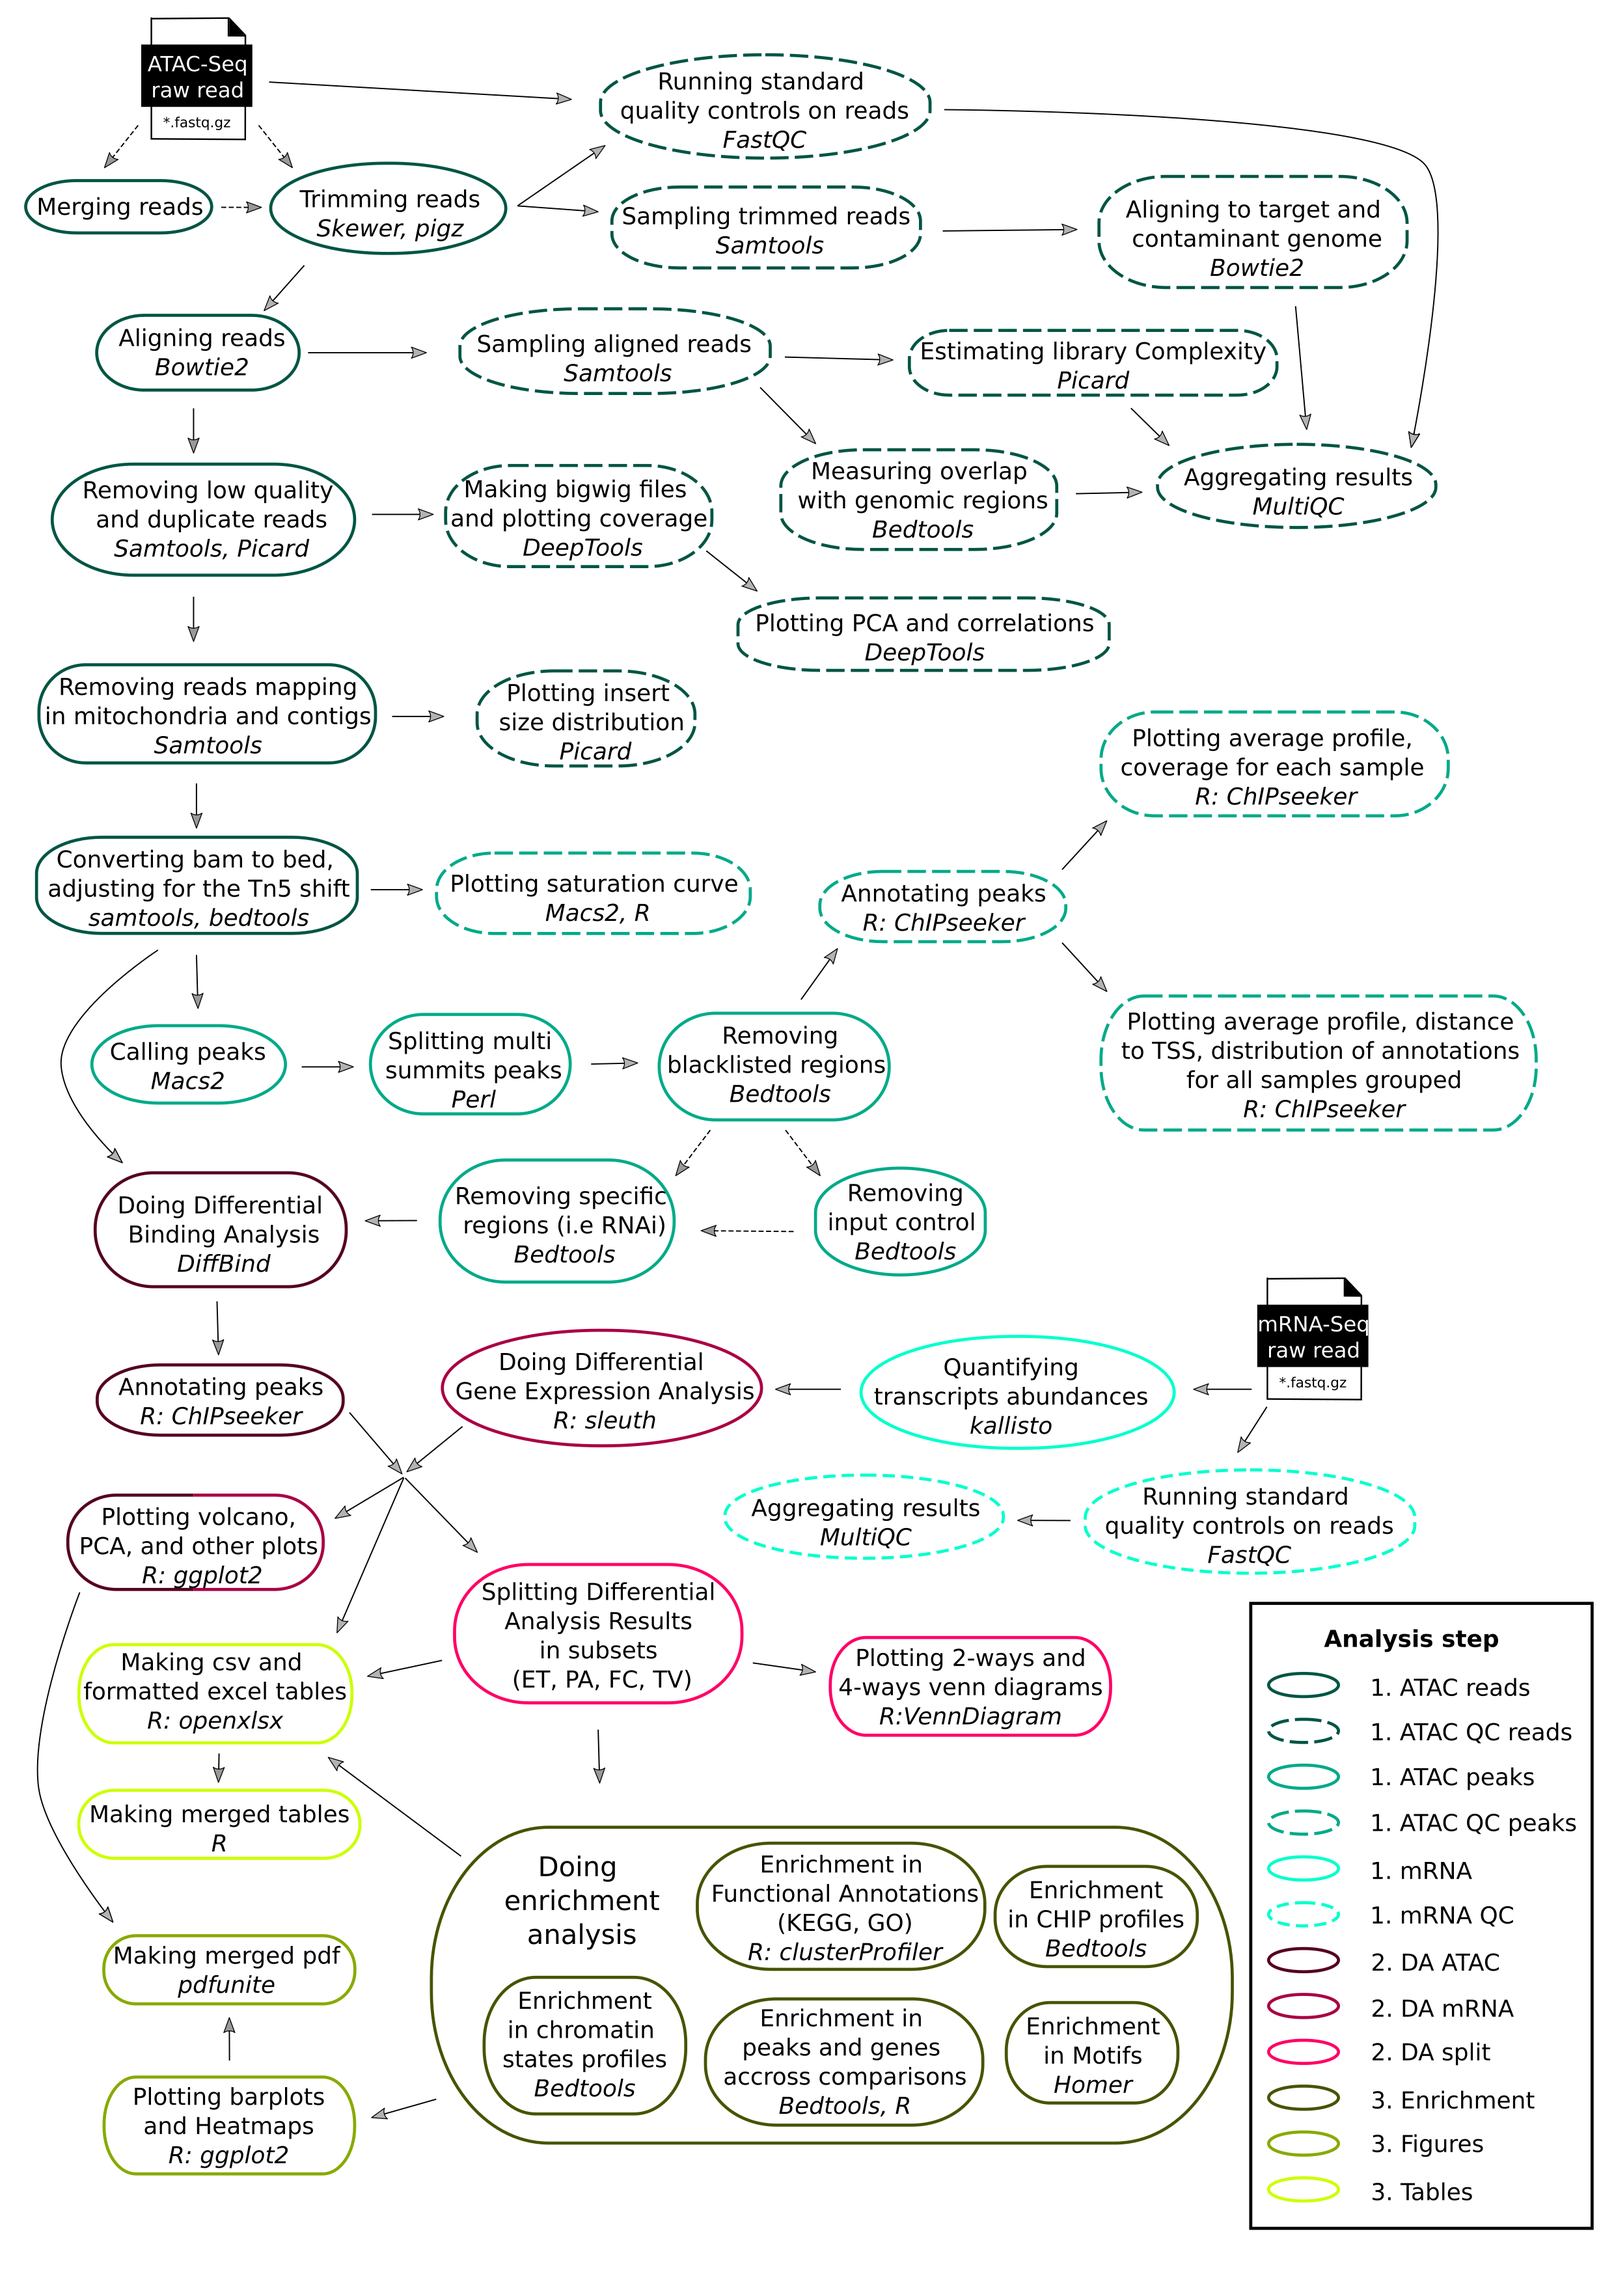
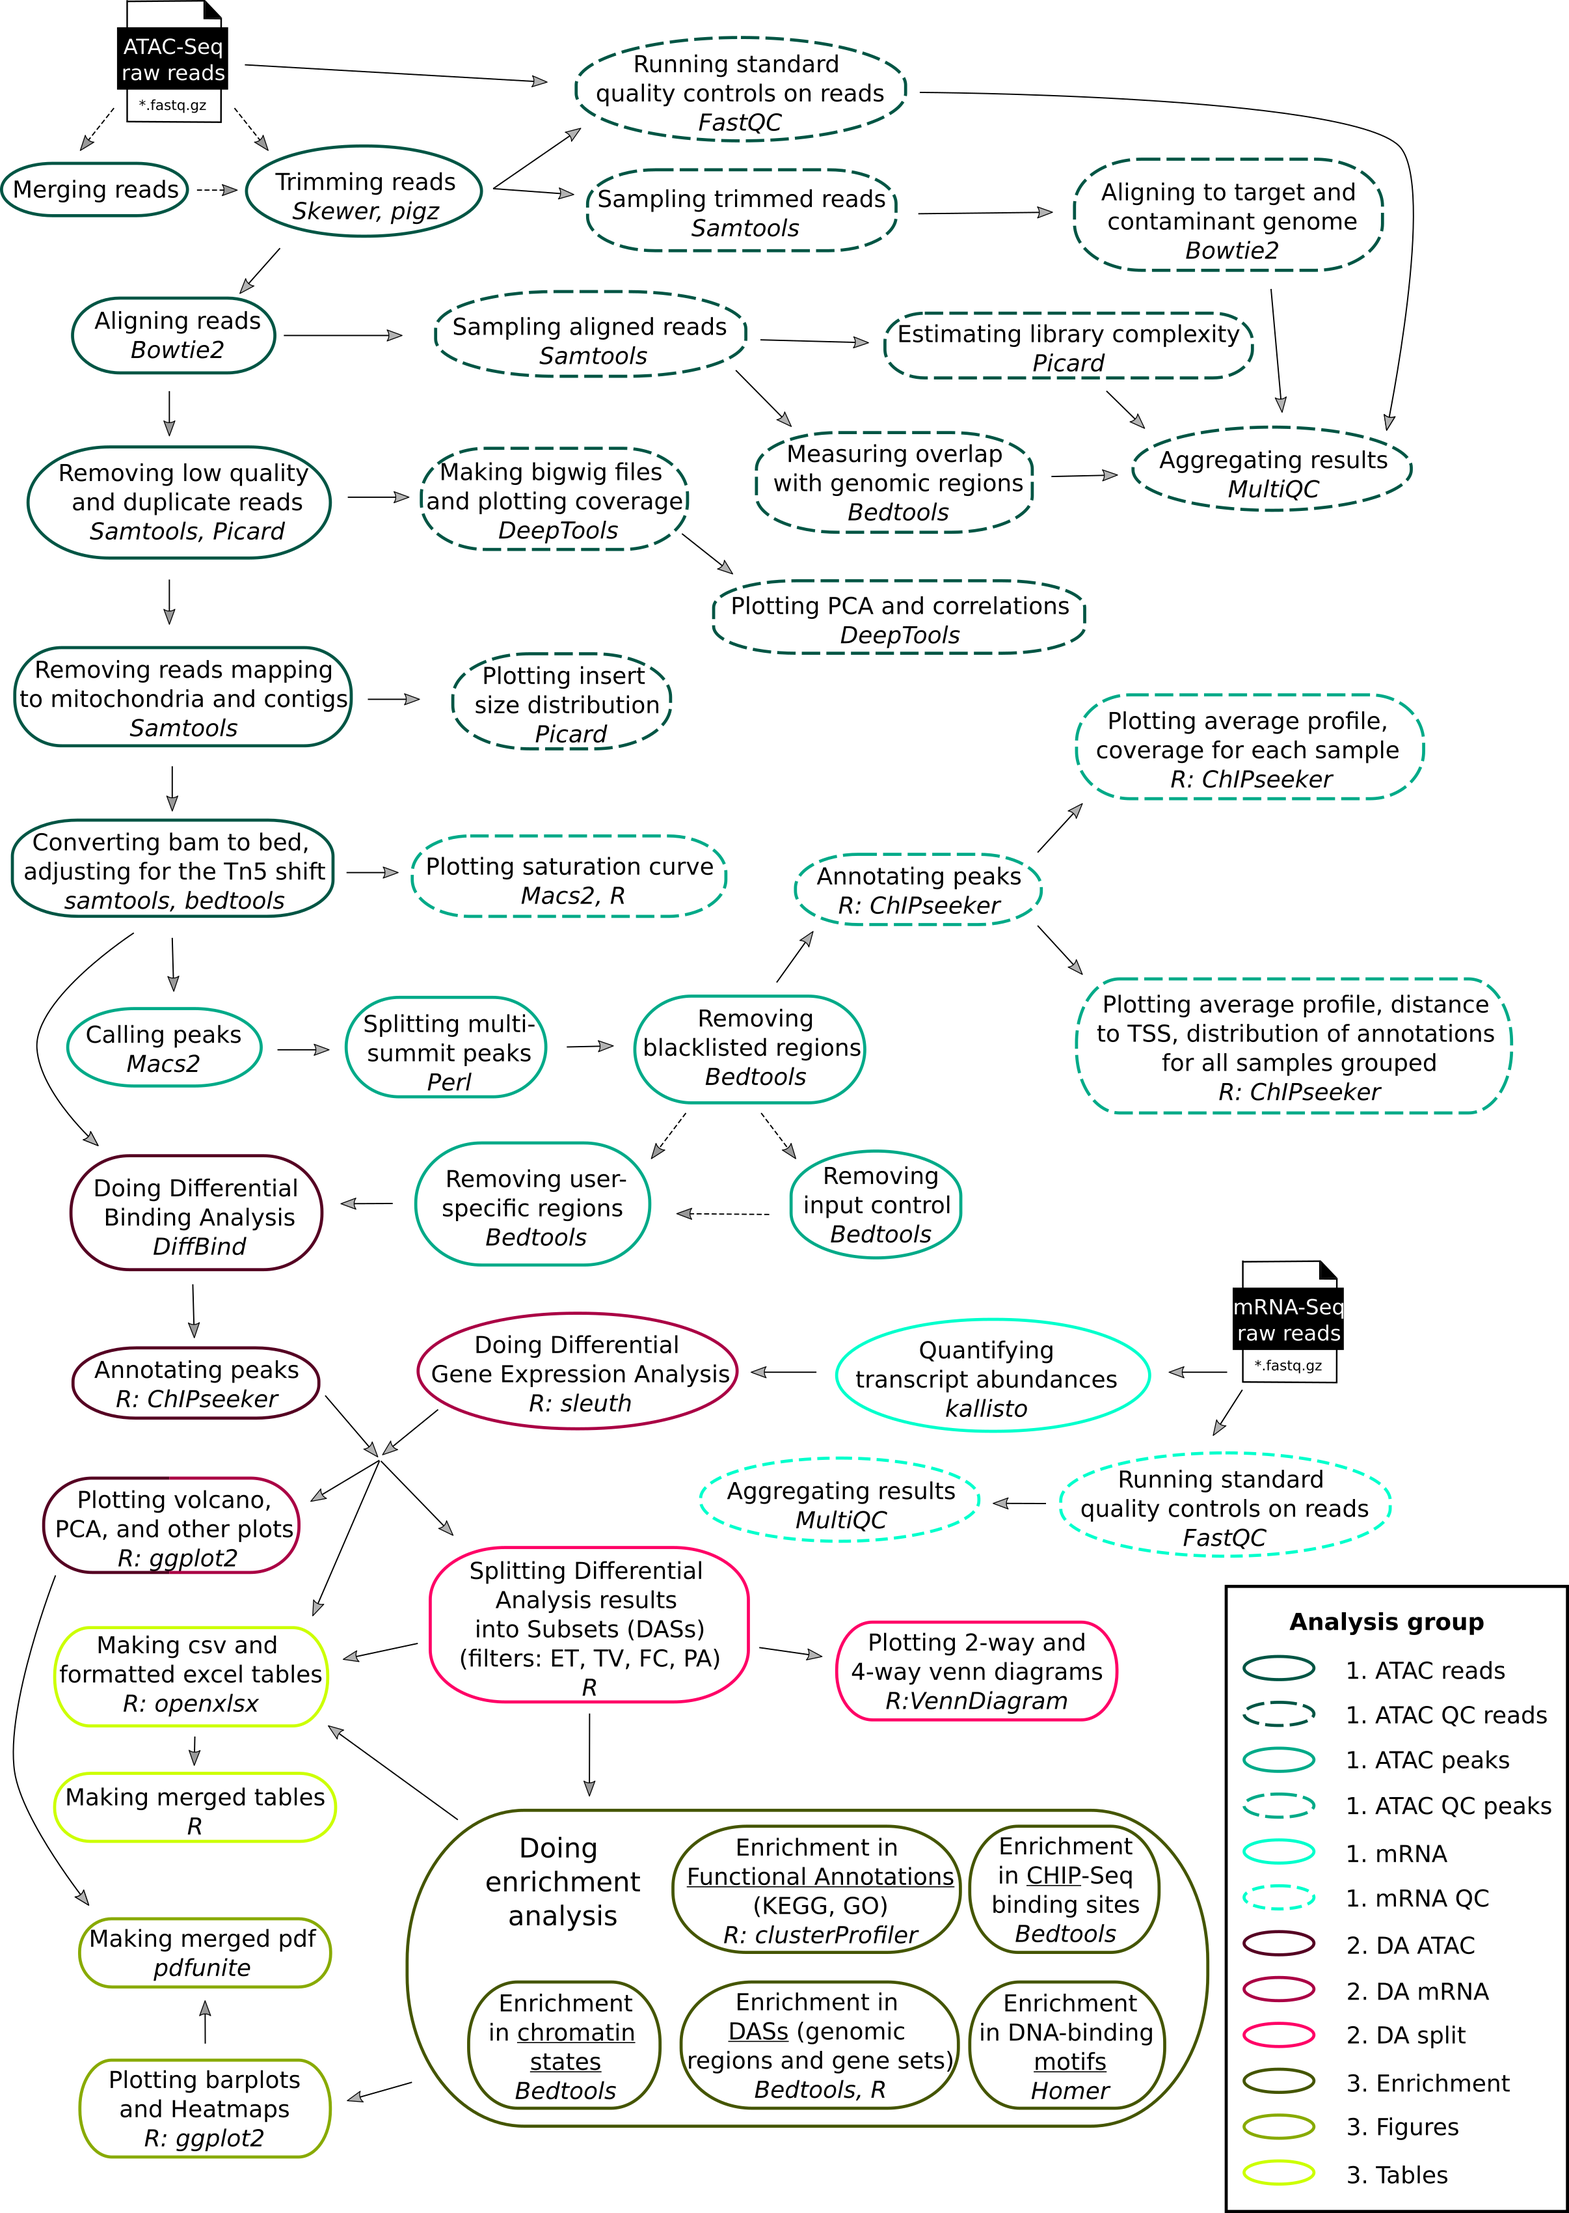
updating figures and text

diff --git a/README.md b/README.md
@@ -14,9 +14,9 @@
 
 ![](/docs/images/figure_1.png "Introduction")
 ***Overview of Cactus.***   
-Overview of Cactus. (a) Key features. Icons of species were obtained and adapted from Servier Medical Art (https://smart.servier.com/) and the Database Center for the life sciences/TogoTV (https://togotv.dbcls.jp/en/pics.html). (b) Simplified workflow. (c) Example of enrichment analysis performed for a gene showing an increase in both chromatin accessibility and gene expression upon treatment. Enrichment of internal GR and GS indicates enrichment of GR and GS with other GR and GS generated by the pipeline. Black lines and blue circles represent DNA and nucleosomes, respectively. Orange lines represent mRNA molecules. (d) Sub-workflow showing the creation of Differential Analysis Subsets (DASs). Dotted arrows indicate optional additional filters. Abbreviations: DAR, Differentially Accessible Region; DEG, Differentially Expressed Gene; ChIP, ChIP-Seq binding sites; motifs, DNA binding motifs; FDR, False Discovery Rate; prom, promoter; distNC, distal non-coding region.  
+(a) Key features. Icons were adapted from [Servier Medical Art](https://smart.servier.com/) and the [Database Center for the life sciences/TogoTV](https://togotv.dbcls.jp/en/pics.html). (b) Simplified workflow. (c) Example of enrichment analysis performed for a gene showing an increase in both chromatin accessibility and gene expression upon treatment. Enrichment of internal GRs and GSs  indicates enrichment of GRs and GSs in other GRs and GSs generated by the pipeline. Black lines and blue circles represent DNA and nucleosomes, respectively. Orange lines represent mRNA molecules. (d) Sub-workflow showing the creation of DASs. Dotted arrows indicate optional additional filters. Abbreviations: DAR, differentially accessible region; DEG, differentially expressed gene; ChIP, ChIP-Seq binding sites; motifs, DNA binding motifs; FDR, false discovery rate; prom, promoter; distNC, distal non-coding region.
 
-**CACTUS** (Chromatin ACcessibility and Transcriptomics Unification Software) is an mRNA-Seq and ATAC-Seq analysis pipeline that aims to assist researchers in formulating hypotheses about the molecular mechanisms regulating their conditions of interest. The pipeline does standard preprocessing and differential abundance analysis, followed by enrichment analysis on various large-scale external datasets, such as databases of gene ontologies, pathways, DNA binding motifs, CHIP-Seq profiles and chromatin states profiles. Currently, Cactus can analyze data from any of the four ENCODE/modENCODE species: *H. sapiens*, *M. musculus*, *D. melanogaster* and *C. elegans*. The pipeline is designed to be easy to use for people without bioinformatics skills, efficient and reproducible through the use of the workflow language Nextflow, and various tools managers (Singularity, Docker, Conda, Mamba), and flexible with many parameters available to customize the analysis. Output files are easy to view (e.g., multiQC, merged and individual pdfs and tables, formatted Excel tables) and interpret (e.g., standardized downstream analysis figures, customizable heatmaps).
+**CACTUS** (Chromatin ACcessibility and Transcriptomics Unification Software) is an mRNA-Seq and ATAC-Seq analysis pipeline that aims to assist researchers in formulating hypotheses about the molecular mechanisms regulating their conditions of interest. The pipeline does standard preprocessing and differential abundance analysis, followed by enrichment analysis using various large-scale external datasets, such as databases of gene ontologies, pathways, DNA binding motifs, CHIP-Seq profiles and chromatin states profiles. Currently, Cactus can analyze data from any of the four ENCODE/modENCODE species: *H. sapiens*, *M. musculus*, *D. melanogaster* and *C. elegans*. The pipeline is designed to be easy to use for people without bioinformatics skills, efficient and reproducible through the use of the workflow language Nextflow, and various tools managers (Singularity, Docker, Conda, Mamba), and flexible with many parameters available to customize the analysis. Output files are easy to view (e.g., multiQC, merged and individual pdfs and tables, formatted Excel tables) and interpret (e.g., standardized downstream analysis figures, customizable heatmaps).
 
 This introductory section provides a quick overview of how Cactus works with, including:
  - A [quick start](/docs/1_Intro/Quick_start.md) guide to get started rapidly

diff --git a/docs/5_DA/Split.md b/docs/5_DA/Split.md
@@ -70,7 +70,7 @@ In additions, two types of tables are produced: res_simple and res_filter. These
 ## DA_split__plotting_venn_diagrams
 
 ### Description
-This process takes as input all gene lists made by the previous process for a given comparison and generates venn diagrams for gene lists that share these keys: PA (Peak Annotation), FC (Fold Change) and TV (Theshold Value).  
+This process takes as input all gene lists made by the previous process for a given comparison and generates venn diagrams for gene lists that share these keys: PA (DARs Peak Annotation), FC (Fold Change type) and TV (Theshold Value).  
 Two types of plots are made:
 - proportional two ways venn diagrams:  ATAC-Seq vs mRNA-Seq with FC either up or down
 - fixed-size four-ways venn diagrams: ATAC-Seq vs mRNA-Seq with FC up and down.

diff --git a/docs/6_Enrich/Enrichment.md b/docs/6_Enrich/Enrichment.md
@@ -41,8 +41,8 @@ The columns that are unique to a particular analysis are described in the corres
 The keys of each subset are then augmented by adding the EC (Enrichment Category) variable. Thus the key becomes: `${ET}__${PA}__${FC}__${TV}__${COMP}__{EC}`.  
 With, as defined in the [splitting process](/docs/5_DA/Split.md#DA_split__splitting_differential_analysis_results_in_subsets), the variables: 
  - ET: Experiment Type
- - PA: Peak Annotation
- - FC: Fold Change
+ - PA: DAR Peak Annotation
+ - FC: Fold Change type
  - TV: Theshold Value(s)
  - COMP: Comparison
  - EC: Enrichment Category
